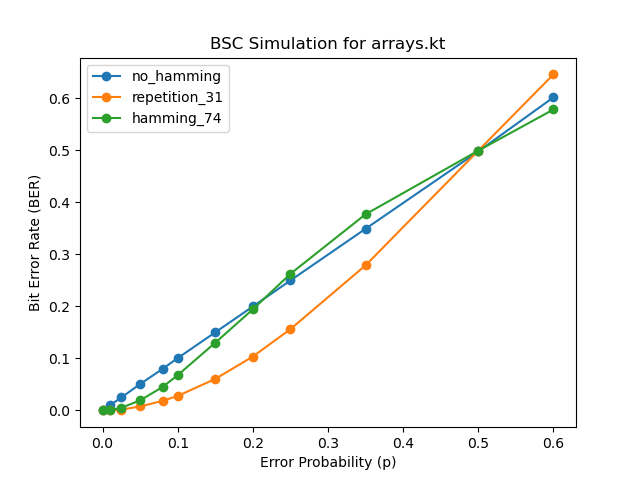
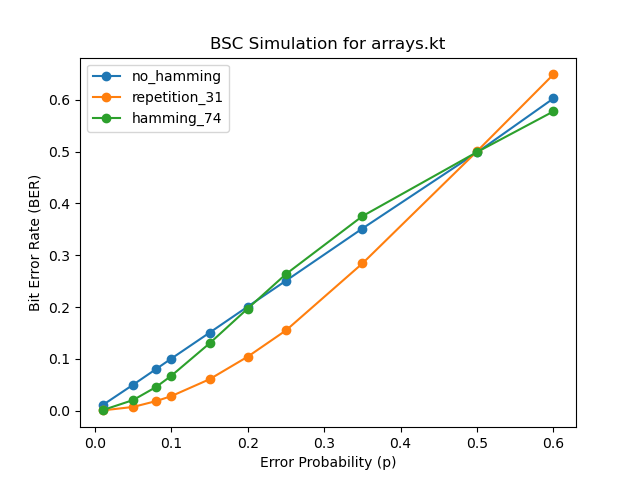
more code

diff --git a/python/exercicio_2.py b/python/exercicio_2.py
@@ -2,6 +2,7 @@ import random
 import crcmod
 from bitarray import bitarray
 
+# Constants
 l_values = [
     1, 
     2, 
@@ -13,12 +14,12 @@ l_values = [
     64, 
     128
 ]
-k = 1024 // 8 # 1024 bits - 128 bytes
-poly = 0x107
+k = 1024 // 8  # 1024 bits - 128 bytes
+poly_crc_32 = 0x104C11DB7
 
-## ------------------------------------------------------
+# ------------------------------------------------------
 #                       2 - a)
-## ------------------------------------------------------
+# ------------------------------------------------------
 
 def burst_error_channel(sequence: bytes, l: int, offset: int = 0) -> bytes:
     """
@@ -26,11 +27,12 @@ def burst_error_channel(sequence: bytes, l: int, offset: int = 0) -> bytes:
 
     :param sequence: the sequence of bytes to be transmitted
     :param l: the number of errors
+    :param offset: the offset at which to start the burst error
 
     :return: the received sequence
     """
-    if l < 0 or l > len(sequence):
-        raise ValueError("l must be between 0 and the length of the sequence")
+    if l < 0 or l > len(sequence) * 8:
+        raise ValueError("l must be between 0 and the length of the sequence in bits")
 
     new_sequence = bitarray()
     new_sequence.frombytes(sequence)
@@ -40,9 +42,9 @@ def burst_error_channel(sequence: bytes, l: int, offset: int = 0) -> bytes:
 
     return new_sequence.tobytes()
 
-## ------------------------------------------------------
+# ------------------------------------------------------
 #                       2 - b)
-## ------------------------------------------------------
+# ------------------------------------------------------
 
 def calculate_crc(sequence: bytes) -> int:
     """
@@ -52,8 +54,8 @@ def calculate_crc(sequence: bytes) -> int:
 
     :return: the CRC
     """
-    crc8 = crcmod.mkCrcFun(poly, initCrc=0, xorOut=0xFFFFFFFF)
-    return crc8(sequence)
+    crc_func = crcmod.mkCrcFun(poly_crc_32, initCrc=0, xorOut=0xFFFFFFFF)    
+    return crc_func(sequence)
 
 def verify_crc(sequence: bytes, crc: int) -> bool:
     """
@@ -66,57 +68,29 @@ def verify_crc(sequence: bytes, crc: int) -> bool:
     """
     return calculate_crc(sequence) == crc
 
-
 def generate_random_block() -> bytes:
     """
     Generate a random block of k bytes.
 
     :return: the random block
     """
-
     return bytes([random.randint(0, 255) for _ in range(k)])
 
 
-## ------------------------------------------------------
-#                       2 - c)
-## ------------------------------------------------------
-
-def undetectable_scenario():
-    """
-    Simulate the undetectable scenario.
-    By using burst error channel with different offsets
-
-    """
-    while True:
-        block = generate_random_block()
-        original_crc = calculate_crc(block)
-        print(f"Original CRC: {original_crc:08X}")
-
-        for l in l_values:
-            for offset in range(k - l + 1):
-                received_block = burst_error_channel(block, l, offset)
-                received_crc = calculate_crc(received_block)
-                if received_crc == original_crc:
-                    print(f"Undetectable scenario found with L = {l} and offset = {offset}")
-                    print(f"Original block: {block}")
-                    print(f"Received block: {received_block}")
-                    print(f"Received CRC: {received_crc:08X}")
-                    return
-        print("No undetectable scenario found")
-
-## ------------------------------------------------------
+# ------------------------------------------------------
 #                        MAIN
-## ------------------------------------------------------
+# ------------------------------------------------------
 
 # 2 - a)
-block = generate_random_block()
 for l in l_values:
+    block = generate_random_block()
     received_block = burst_error_channel(block, l)
-    crc = calculate_crc(received_block)
-    is_correct = verify_crc(block, crc)
-    print(f"With L = {l}, an error has occurred: {not is_correct}")
-
-# 2 - b) 
-undetectable_scenario()
-
+    original_crc = calculate_crc(block)
+    calculated_crc = calculate_crc(received_block)
+    is_correct = verify_crc(block, calculated_crc)
+    print(f"For L = {l}")
+    print(f"\tWith block size {k}")
+    print(f"\tOriginal CRC: {hex(original_crc)}")
+    print(f"\tReceived CRC: {hex(calculated_crc)}")
+    print(f"\tError detectected: {not is_correct}")
 

diff --git a/python/exercicio_1.py b/python/exercicio_1.py
@@ -9,12 +9,12 @@ output_path = "output/"
 files_to_be_tested = [
     "a.txt", 
     # "alice29.txt", 
-    # "arrays.kt", 
+    "arrays.kt", 
     # "barries.jpg", 
     # "barries.tif", 
     # "bird.gif", 
     # "cp.htm", 
-    # "fibonacci.kt", 
+    "fibonacci.kt", 
     "maximumSubarray.kt", 
     "person.java", 
     # "progc.c", 
@@ -34,7 +34,7 @@ P_VALUES = [
     0.6
 ]
 
-NUM_ITERATIONS = 7
+NUM_ITERATIONS = 5
 
 
 ## ------------------------------------------------------
@@ -94,7 +94,7 @@ def bit_error_rate(original: bytes, received: bytes) -> float:
 #                       1 - a) (i)
 ## ------------------------------------------------------
 
-def transmit_no_hamming(input: bytes, p: float) -> bytes:
+def transmit_no_error_correction(input: bytes, p: float) -> bytes:
     return binary_symmetric_channel(input, p)
 
 ## ------------------------------------------------------
@@ -238,9 +238,9 @@ def transmit_hamming_74_correction(input: bytes, p: float) -> bytes:
 
 # dictionary to store the methods and lookup by name
 methods = {
-    "no_hamming": transmit_no_hamming,
-    "repetition_31": transmit_repetition_31_correction,
-    "hamming_74": transmit_hamming_74_correction,
+    "Sem Correcção": transmit_no_error_correction,
+    "Repetição(3,1)": transmit_repetition_31_correction,
+    "Hamming(7,4)": transmit_hamming_74_correction,
 }
 
 for file_name in files_to_be_tested:
@@ -263,6 +263,7 @@ for file_name in files_to_be_tested:
                 ber += bit_error_rate(original, received)
             ber /= NUM_ITERATIONS
             bers.append(ber)
+
         
         # Plot the line graph for each method
         plt.plot(P_VALUES, bers, marker='o', label=method_name)
@@ -270,29 +271,3 @@ for file_name in files_to_be_tested:
     plt.legend()
     plt.savefig(output_path + file_name + ".png")
 
-
-# plot difference for the a.txt file
-plt.figure()
-plt.title("BER difference from p-value for a.txt")
-plt.xlabel("Error Probability (p)")
-plt.ylabel("Bit Error Rate (BER) Difference")
-
-with open(file_path + "a.txt", "rb") as file:
-    original = file.read()
-
-for method_name, method in methods.items():
-    p_values = []
-    ber_diffs = []
-    for p in P_VALUES:
-        ber = 0
-        for _ in range(NUM_ITERATIONS):
-            received = method(original, p)
-            ber += bit_error_rate(original, received)
-        ber /= NUM_ITERATIONS
-        diff = ber - p
-        p_values.append(p)
-        ber_diffs.append(diff)
-    plt.plot(p_values, ber_diffs, marker='o', label=method_name)
-
-plt.legend()
-plt.show()
